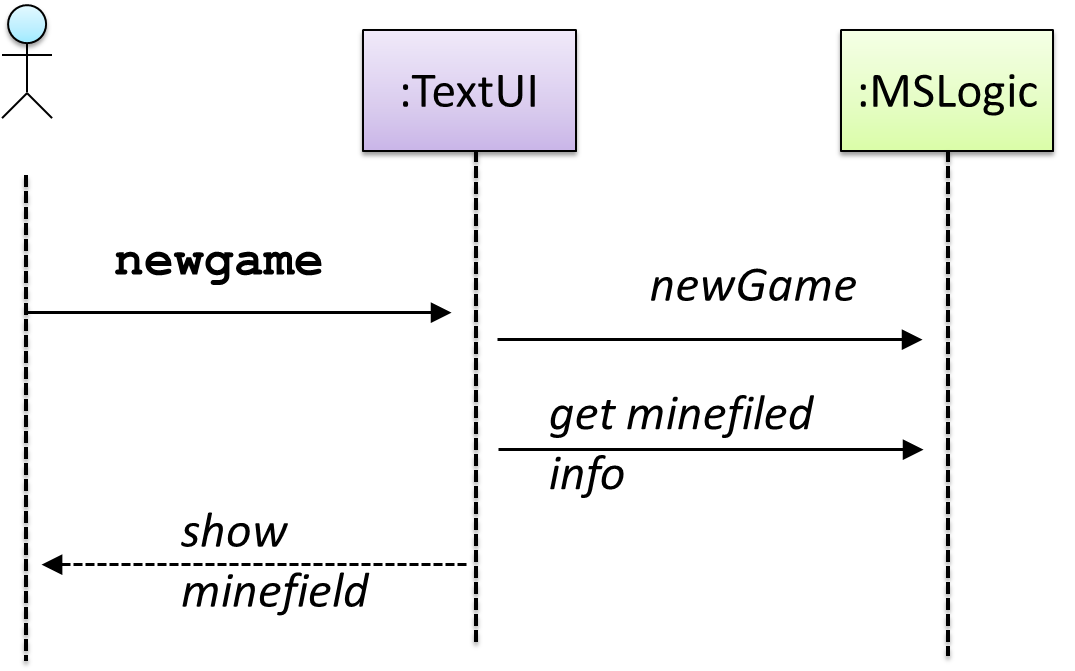
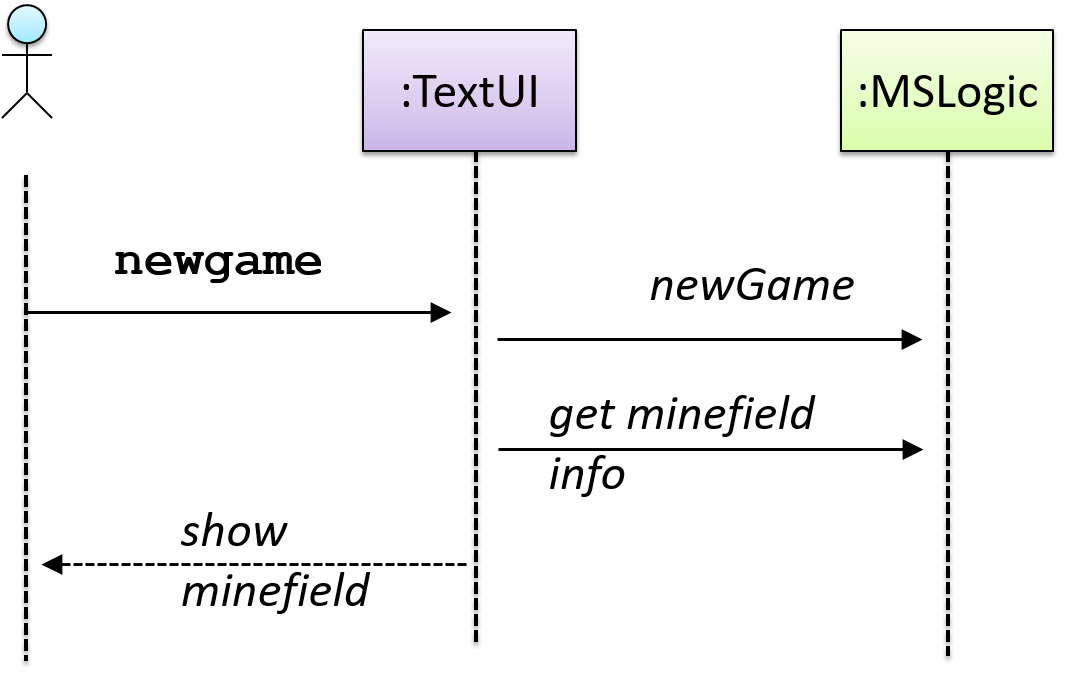
Fix typos in various pages

diff --git a/designApproaches/topDownBottomUp/what/text.md b/designApproaches/topDownBottomUp/what/text.md
@@ -9,7 +9,7 @@
 
 **Multi-level design can be done in a top-down manner, bottom-up manner, or as a mix.**
 * Top-down: Design the high-level design first and flesh out the lower levels later. This is especially useful when designing big and novel systems where the high-level design needs to be stable before lower levels can be designed.
-* Bottom-up: Design lower level components first and put them together to create the higher-level systems later. This is not usually scalable for bigger systems. One instance where this approach might work is when designing a variations of an existing system or re-purposing existing components to build a new system.
+* Bottom-up: Design lower level components first and put them together to create the higher-level systems later. This is not usually scalable for bigger systems. One instance where this approach might work is when designing a variation of an existing system or re-purposing existing components to build a new system.
 * Mix: Design the top levels using the top-down approach but switch to a bottom-up approach when designing the bottom levels. 
 
 </div>

diff --git a/revisionControl/drcsVsCrcs/text.md b/revisionControl/drcsVsCrcs/text.md
@@ -8,7 +8,7 @@
 
 **RCS can be done in two ways: the _centralized_ way and the _distributed_ way.**
 
-**Centralized RCS (CRCS for short)uses a central remote repo that is shared by the team.** Team members download (‘pull’) and upload (‘push’) changes between their own local repositories and the central repository. Older RCS tools such as CVS and SVN support only this model. Note that these older RCS do not support the notion of a local repo either. Instead, they force users to do all the versioning with the remote repo.
+**Centralized RCS (CRCS for short) uses a central remote repo that is shared by the team.** Team members download (‘pull’) and upload (‘push’) changes between their own local repositories and the central repository. Older RCS tools such as CVS and SVN support only this model. Note that these older RCS do not support the notion of a local repo either. Instead, they force users to do all the versioning with the remote repo.
 
 <pic src="{{baseUrl}}/revisionControl/drcsVsCrcs/images/crcsDiagram.png" width="300">
 

diff --git a/cppToJava/inheritance/abstractClassesAndMethods/text.md b/cppToJava/inheritance/abstractClassesAndMethods/text.md
@@ -51,7 +51,7 @@ public abstract class Account {
 
 {{ icon_info }} In Java, even **a class that does not have any abstract methods _can_ be declared as an abstract class.**
 
-**When an abstract class is subclassed, the subclass should provides implementations for all of the abstract methods in its superclass or else the subclass must also be declared abstract.**
+**When an abstract class is subclassed, the subclass should provide implementations for all of the abstract methods in its superclass or else the subclass must also be declared abstract.**
 
 <box>
 

diff --git a/oop/inheritance/dynamicAndStaticBinding/text.md b/oop/inheritance/dynamicAndStaticBinding/text.md
@@ -60,7 +60,7 @@ class Account {
 }
 ```
 
-{{ icon_example }} Similarly, the `calcuateGrade` method is overloaded in the code below and a method call `calculateGrade("A1213232")` is bound to the second implementation, at compile time.
+{{ icon_example }} Similarly, the `calculateGrade` method is overloaded in the code below and a method call `calculateGrade("A1213232")` is bound to the second implementation, at compile time.
 
 ```java
 void calculateGrade (int[] averages) { ... }

diff --git a/specifyingRequirements/userStories/usage/text.md b/specifyingRequirements/userStories/usage/text.md
@@ -94,7 +94,7 @@ More examples that might apply to some products:
 </blockquote>
 
 
-****Step 4:**** **List the user stories to supports the scenarios:**
+****Step 4:**** **List the user stories to support the scenarios:**
 
 Based on the scenarios, decide user stories you need to support each. For example, based on the scenario 'A. First use', you might have user stories such as these:
 

diff --git a/cppToJava/misc/varargs/text.md b/cppToJava/misc/varargs/text.md
@@ -6,7 +6,7 @@
 
 <div id="body">
 
-Variable Arguments (Varargs) is a _syntactic sugar_ type feature that allows writing a methods that can take a variable number of arguments.
+Variable Arguments (Varargs) is a _syntactic sugar_ type feature that allows writing a method that can take a variable number of arguments.
 
 <box>
 

diff --git a/principles/lawOfDemeter/q-essay-demeter.md b/principles/lawOfDemeter/q-essay-demeter.md
@@ -7,7 +7,7 @@ Explain the Law of Demeter using code examples. You are to make up your own code
 
 Let us take the `Logic` class as an example.  Assume that it has the following operation.
 
-`setMinefield(Minefiled mf):void`
+`setMinefield(Minefield mf):void`
 
 Consider the following that can happen inside this operation.
 

diff --git a/oop/classes/what/q-essay-identifyClassesAndObjects.md b/oop/classes/what/q-essay-identifyClassesAndObjects.md
@@ -15,7 +15,7 @@ Class      | Objects
 ---------- | -------
 `Customer` | `john`
 `Book`     | `LoTR`, `GoT`
-`Cheque`   | `checqueJohnGave`
+`Cheque`   | `chequeJohnGave`
 `Cashier`  | `peter`
 
 </div>
